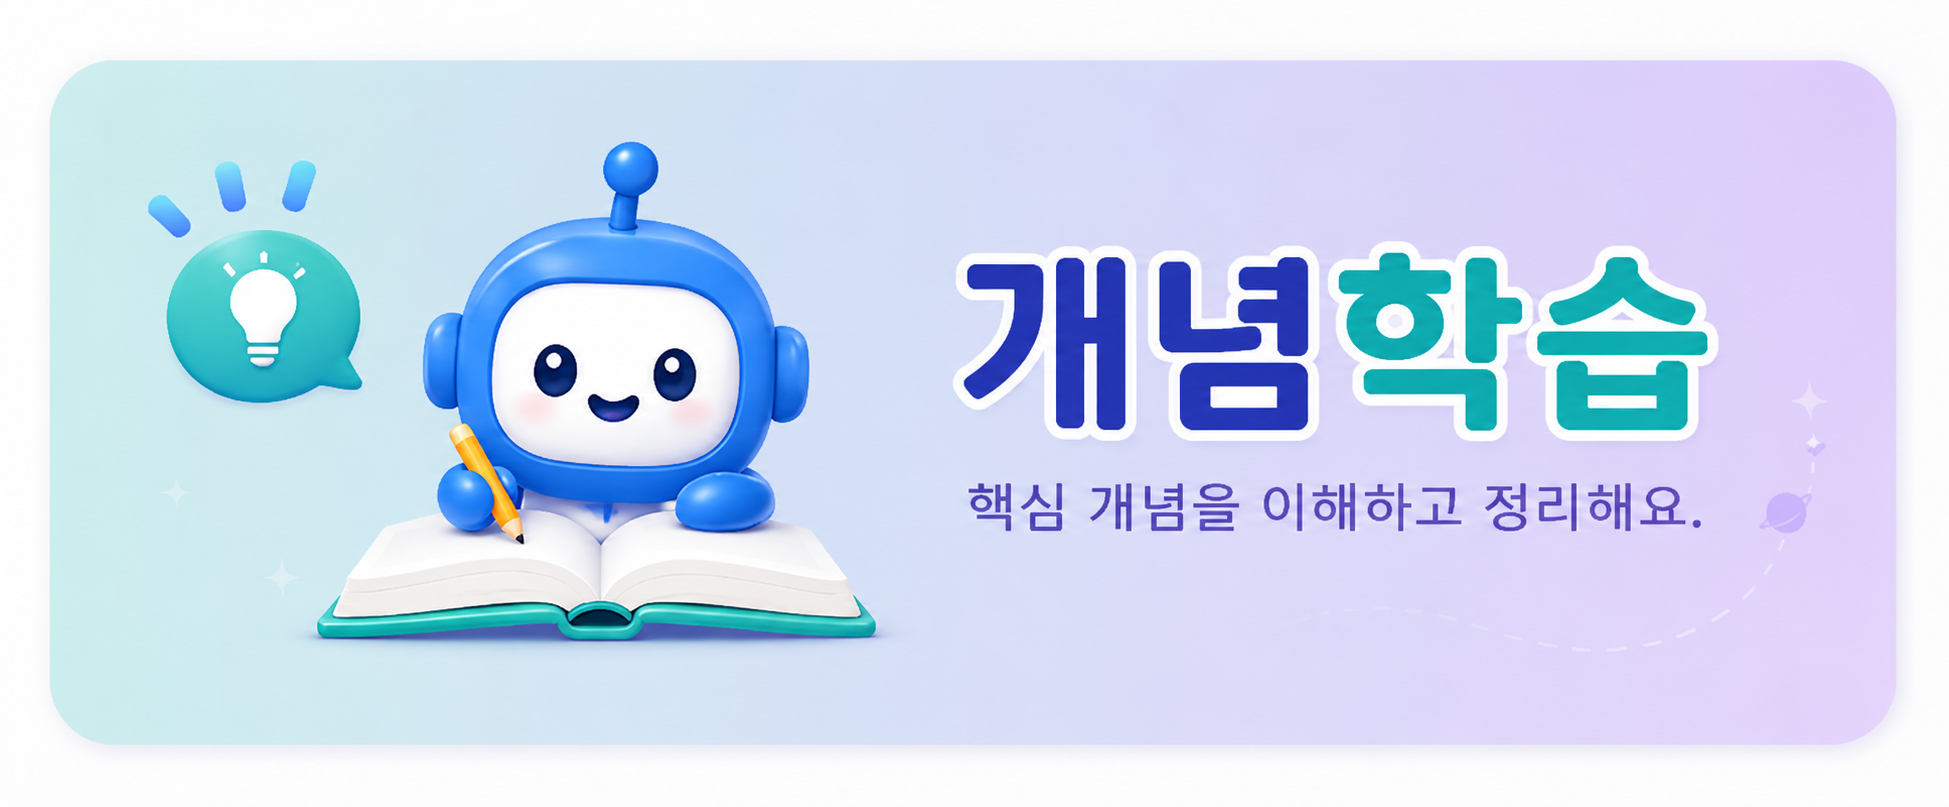
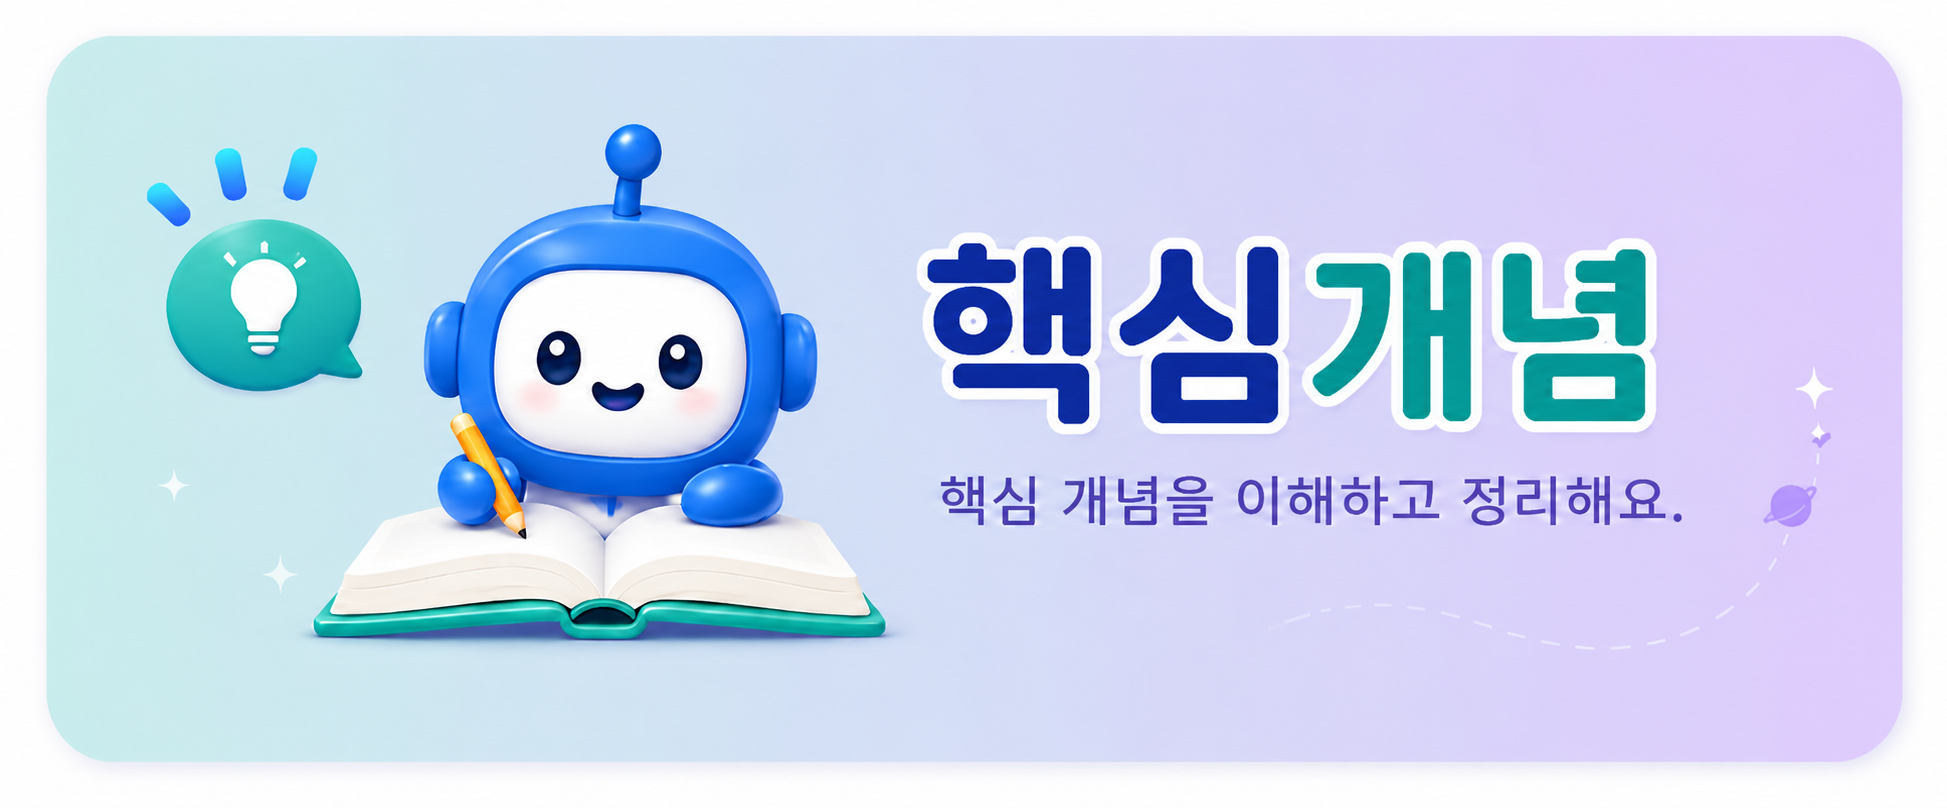
design: 필터 드롭다운 너비 수정 + 질문현황 카드 높이 통일 + 레이블 수정
- FilterDropdown 펼침 너비: minWidth 100% + max-content + maxWidth 320px
- 질문현황 미니카드에 subtitle 추가 (개념이해현황 높이와 통일)
- 이해수준 → 이해 수준 (띄어쓰기)
- learn.png 업데이트

diff --git a/app/teacher/page.tsx b/app/teacher/page.tsx
@@ -337,7 +337,7 @@ function FilterDropdown({ label, opts, sel, onToggle, getLabel, getStyle }: {
       </button>
       {open && (
         <div className="absolute top-full left-0 mt-1 bg-white rounded-xl shadow-lg border border-[#e0e0f0] z-20 max-h-52 overflow-y-auto"
-          style={{minWidth:'max-content'}}>
+          style={{minWidth:'100%', width:'max-content', maxWidth:'320px'}}>
           {opts.map(o => {
             const on = sel.includes(o); const s = getStyle?.(o);
             return (
@@ -724,18 +724,22 @@ export default function TeacherPage() {
               <div className="rounded-xl py-2.5 px-4 text-center" style={{background:'#f0f2f8'}}>
                 <div className="text-xs text-[#9ca3af] mb-0.5">총 질문</div>
                 <div className="text-xl font-black text-[#1a1a2e]">{stats.n}<span className="text-xs font-normal text-[#9ca3af] ml-0.5">개</span></div>
+                <div className="text-xs text-[#9ca3af] mt-0.5">필터 기준 전체</div>
               </div>
               <div className="rounded-xl py-2.5 px-4 text-center" style={{background:'linear-gradient(135deg,#667eea18,#764ba218)', border:'1px solid #667eea20'}}>
                 <div className="text-xs text-[#9ca3af] mb-0.5">참여 학생</div>
                 <div className="text-xl font-black text-[#3949ab]">{stats.uniqueStudents}<span className="text-xs font-normal text-[#9ca3af] ml-0.5">명</span></div>
+                <div className="text-xs text-[#9ca3af] mt-0.5">질문 작성 참여</div>
               </div>
               <div className="rounded-xl py-2.5 px-4 text-center" style={{background:'#e8f5e9'}}>
                 <div className="text-xs text-[#9ca3af] mb-0.5">평균 단계</div>
                 <div className="text-xl font-black" style={{color:'#667eea'}}>{stats.avg.toFixed(1)}<span className="text-xs font-normal text-[#9ca3af] ml-0.5">단계</span></div>
+                <div className="text-xs text-[#9ca3af] mt-0.5">1–4단계 기준</div>
               </div>
               <div className="rounded-xl py-2.5 px-4 text-center" style={{background:'#e8eaf6'}}>
                 <div className="text-xs text-[#9ca3af] mb-0.5">3·4단계</div>
                 <div className="text-xl font-black" style={{color: stats.highPct >= 50 ? '#2e7d32' : '#9e9e9e'}}>{stats.highPct}<span className="text-xs font-normal text-[#9ca3af] ml-0.5">%</span></div>
+                <div className="text-xs text-[#9ca3af] mt-0.5">심층 탐구 비율</div>
               </div>
             </div>
           </div>
@@ -988,7 +992,7 @@ export default function TeacherPage() {
               <FilterDropdown label="프로젝트" opts={PROJECT_LIST} sel={fLearnLesson}
                 onToggle={v => setFLearnLesson(tog(fLearnLesson, v as string))}
                 getLabel={v => v as string} />
-              <FilterDropdown label="이해수준" opts={LEARN_STATUS_OPTS} sel={fLearnStatus}
+              <FilterDropdown label="이해 수준" opts={LEARN_STATUS_OPTS} sel={fLearnStatus}
                 onToggle={v => setFLearnStatus(tog(fLearnStatus, v as string))}
                 getLabel={v => LEARN_STATUS_INFO[v as LearnStatus].label}
                 getStyle={v => LEARN_STATUS_INFO[v as LearnStatus]} />
